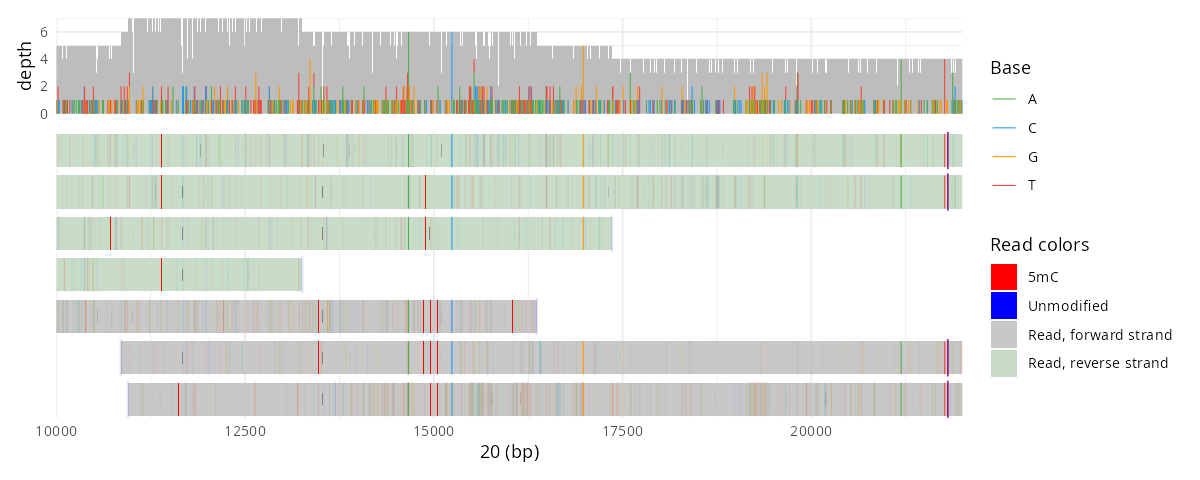
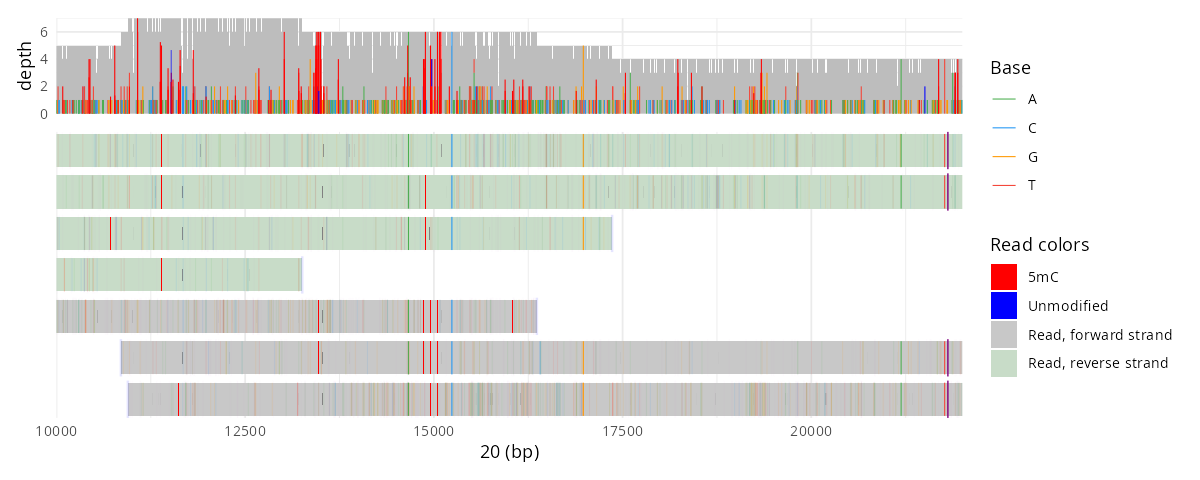
The coverage band stacks what the display stacks, and rows lay out under the display's sort
The allele and modification stacks come from the engine's own packed
segments, so the band shows methylation state at each CpG as the browser's
does and the alleles need no R re-derivation. jbrowse_alignments() takes the
display's sort object, so a column sort by base, strand or tag, or a
whole-window order by length, lays the rows out as the browser lays them.

diff --git a/README.md b/README.md
@@ -71,13 +71,16 @@ ggplot(cram$mismatches, aes(position, frequency, colour = base)) +
   scale_colour_manual(values = jbrowse_colors()$bases)
 ```
 
-`color`, `filter`, `base_color` and `modifications` are the display's own
-settings objects, so what JBrowse can color, filter or paint by, this can:
-`color = "mapq"`, `color = list(field = "insertSize", domain = c(200, 600))`,
+`color`, `filter`, `base_color`, `modifications` and `sort` are the
+display's own settings objects, so what JBrowse can color, filter, paint or
+sort by, this can: `color = "mapq"`,
+`color = list(field = "insertSize", domain = c(200, 600))`,
 `filter = list(flagExclude = 1796, tagFilters = list(list(tag = "HP", value = "1")))`,
-`base_color = "modifications"`. Each read comes back with the fill the
+`base_color = "modifications"`, `sort = list(type = "basePair", pos = 1055)`.
+Each read comes back on the row the display lays it on, with the fill the
 display paints it and the bucket it files it under, each modification call
-with its color and opacity, and `a$legend` is the display's key.
+with its color and opacity, the coverage band's stacks as the display stacks
+them, and `a$legend` is the display's key.
 
 A file can be a path or a URL; a remote file is read in byte ranges through
 `curl`. CRAM needs the reference, as a FASTA with its `.fai` or a 2bit. There
